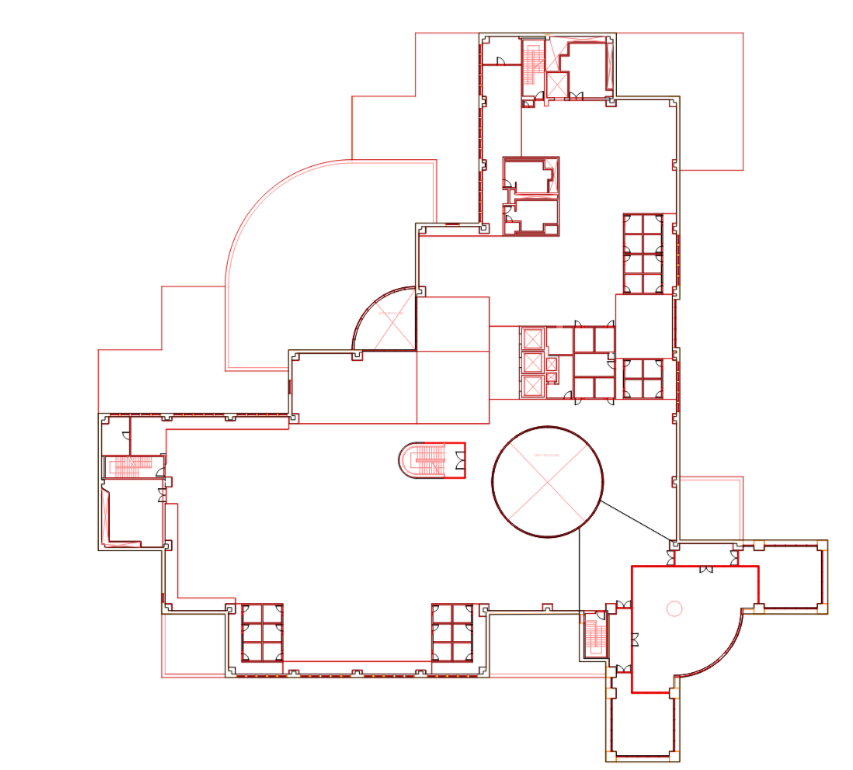
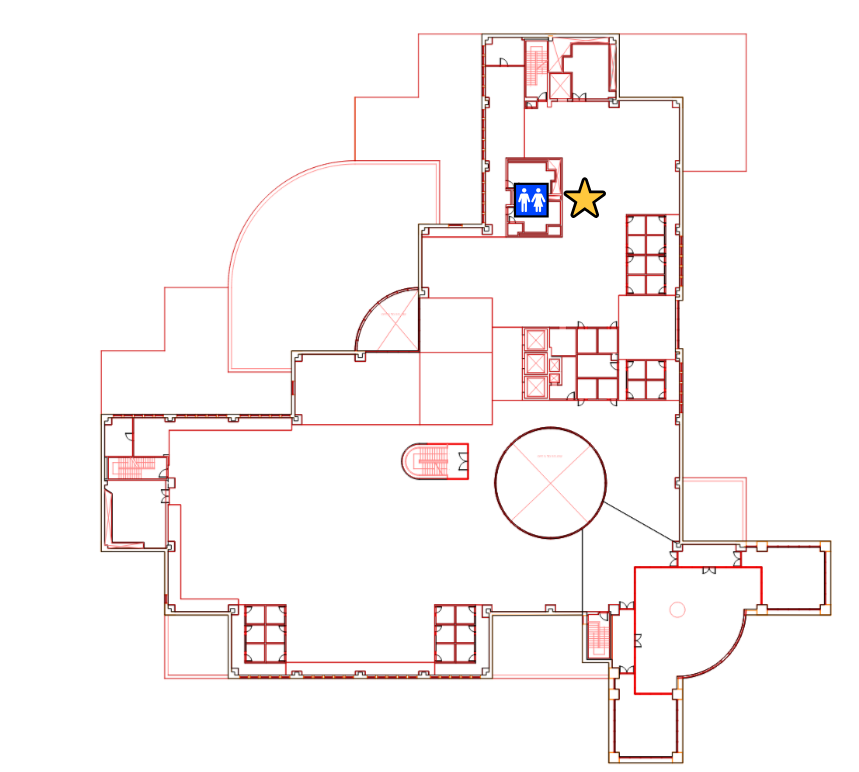
Updated images with bathroom locators

diff --git a/Open-Source/src/Components/Floor.jsx b/Open-Source/src/Components/Floor.jsx
@@ -2,51 +2,62 @@ import Button from './Button.jsx'
 // import { useState } from 'react'
 
 
-function Floor({floorNumber}){
+function Floor({floorNumber, hasBathrooms}){
+    
+    if (hasBathrooms) {
+        let currentWStatus = 'Open'
+        let currentWCleanliness = 'Clean'
+        let currentMStatus = 'Closed'
+        let currentMCleanliness = 'Dirty'
 
-    let currentWStatus = 'Open'
-    let currentWCleanliness = 'Clean'
-    let currentMStatus = 'Closed'
-    let currentMCleanliness = 'Dirty'
+        // const [currentStatus, setCurrentStatus] = useState('Open')
+        // const [currentCleanliness, setCurrentCleanliness] = useState('Clean')
 
-    // const [currentStatus, setCurrentStatus] = useState('Open')
-    // const [currentCleanliness, setCurrentCleanliness] = useState('Clean')
+        // using backend for these functions to update: 
+        // const updateStatus = () => {
+        //     if (currentStatus == 'Open') {
+        //         setCurrentStatus('Closed')
+        //     } else if (currentStatus == 'Closed') {
+        //         setCurrentStatus('Closed')
+        //     }
+        // }
 
-    // using backend for these functions to update: 
-    // const updateStatus = () => {
-    //     if (currentStatus == 'Open') {
-    //         setCurrentStatus('Closed')
-    //     } else if (currentStatus == 'Closed') {
-    //         setCurrentStatus('Closed')
-    //     }
-    // }
+        // const updateCleanliness = () => {
+        //     if (currentCleanliness == 'Clean') {
+        //         setCurrentCleanliness('Dirty')
+        //     } else if (currentCleanliness == 'Dirty') {
+        //         setCurrentCleanliness('Clean')
+        //     }
+        // }
 
-    // const updateCleanliness = () => {
-    //     if (currentCleanliness == 'Clean') {
-    //         setCurrentCleanliness('Dirty')
-    //     } else if (currentCleanliness == 'Dirty') {
-    //         setCurrentCleanliness('Clean')
-    //     }
-    // }
-
-    return (
-        <div className="floor-container">
-            <h1 className='floor-title'>Floor {floorNumber} </h1>
-            <div className="floor">
-                <section>
-                    <h3>Women's</h3>
-                    <Button status={currentWStatus}></Button>
-                    <Button status={currentWCleanliness}></Button>
-                </section>
-                <section>
-                    <h3>Men's:</h3>
-                    <Button status={currentMStatus}></Button>
-                    <Button status={currentMCleanliness}></Button>
-                </section>
+        return (
+            <div className="floor-container">
+                <h1 className='floor-title'>Floor {floorNumber} </h1>
+                <div className="floor">
+                    <section>
+                        <h3>Women's</h3>
+                        <Button status={currentWStatus}></Button>
+                        <Button status={currentWCleanliness}></Button>
+                    </section>
+                    <section>
+                        <h3>Men's:</h3>
+                        <Button status={currentMStatus}></Button>
+                        <Button status={currentMCleanliness}></Button>
+                    </section>
+                </div>
             </div>
-        </div>
-    )
-
+        )
+    } else {
+        return (
+            <div className="floor-container">
+                <h1 className='floor-title'>Floor {floorNumber} </h1>
+                <div className="floor">
+                    <h3>This floor has no bathrooms.</h3>
+                </div>
+            </div>
+        )
+    }
 }
+
 
 export default Floor

diff --git a/Open-Source/src/Components/Building.jsx b/Open-Source/src/Components/Building.jsx
@@ -5,29 +5,34 @@ function Building({buildingName, numberOfFloors}){
     let floors = numberOfFloors.map((count) => {
         if (buildingName == "Library") {
             let image;
+            let hasBathroom = true;
             if (count == 1) {
-                image = "/src/assets/LibraryFirstFloor.PNG"
+                image = "/src/assets/LibraryFirstFloor.PNG";
+                hasBathroom = true;
             } else if (count==2) {
-                image = "/src/assets/LibrarySecondFloor.PNG"
+                image = "/src/assets/LibrarySecondFloor.PNG";
+                hasBathroom = true;
             } else if (count==3) {
-                image = "/src/assets/Library3rdFloor.PNG"
+                image = "/src/assets/Library3rdFloor.PNG";
+                hasBathroom = true;
             } else if (count==4) {
-                image = "/src/assets/Library4thFloor.PNG"
+                image = "/src/assets/Library4thFloor.PNG";
+                hasBathroom = true;
             } else if (count==5) {
-                image = "/src/assets/Library5thFloor.PNG"
+                image = "/src/assets/Library5thFloor.PNG";
+                hasBathroom = true;
             } else if (count==6) {
-                image = "/src/assets/Library6thFloor.PNG"
+                hasBathroom = false;
             }
             return <li key={count}>
-                <Floor floorNumber={count}></Floor>
+                <Floor floorNumber={count}  hasBathrooms={hasBathroom}></Floor>
                 <img src={image}></img>
             </li>
         } else {
             return <li key={count}>
-            <Floor floorNumber={count}></Floor>
+            <Floor floorNumber={count} hasBathrooms={true}></Floor>
         </li>
-        }
-        
+        }    
     })
     
     return (

diff --git a/Open-Source/src/Components.css b/Open-Source/src/Components.css
@@ -48,6 +48,7 @@ button:focus, button:hover {
 .floor {
     display: grid;
     grid-template-columns: 50% 50%;
+    text-align: center;
 }
 
 .floor > button {
@@ -62,6 +63,7 @@ img {
 
 .ListView {
     display: grid;
+    row-gap: 3vh;
     grid-template-columns: 50% 50%;
     justify-content: center;
     align-items: center;
@@ -86,8 +88,6 @@ h3 {
     background-color: white;
     justify-self: center;
     max-width: 100vw;
-    padding-left: 1vw;
-    padding-right: 1vw;
 }
 
 li {
@@ -97,9 +97,7 @@ li {
 
 .building {
     min-height: 100vh;
-    width: 100vw;
-    
-
+    width: 99vw;
 }
 
 a {
